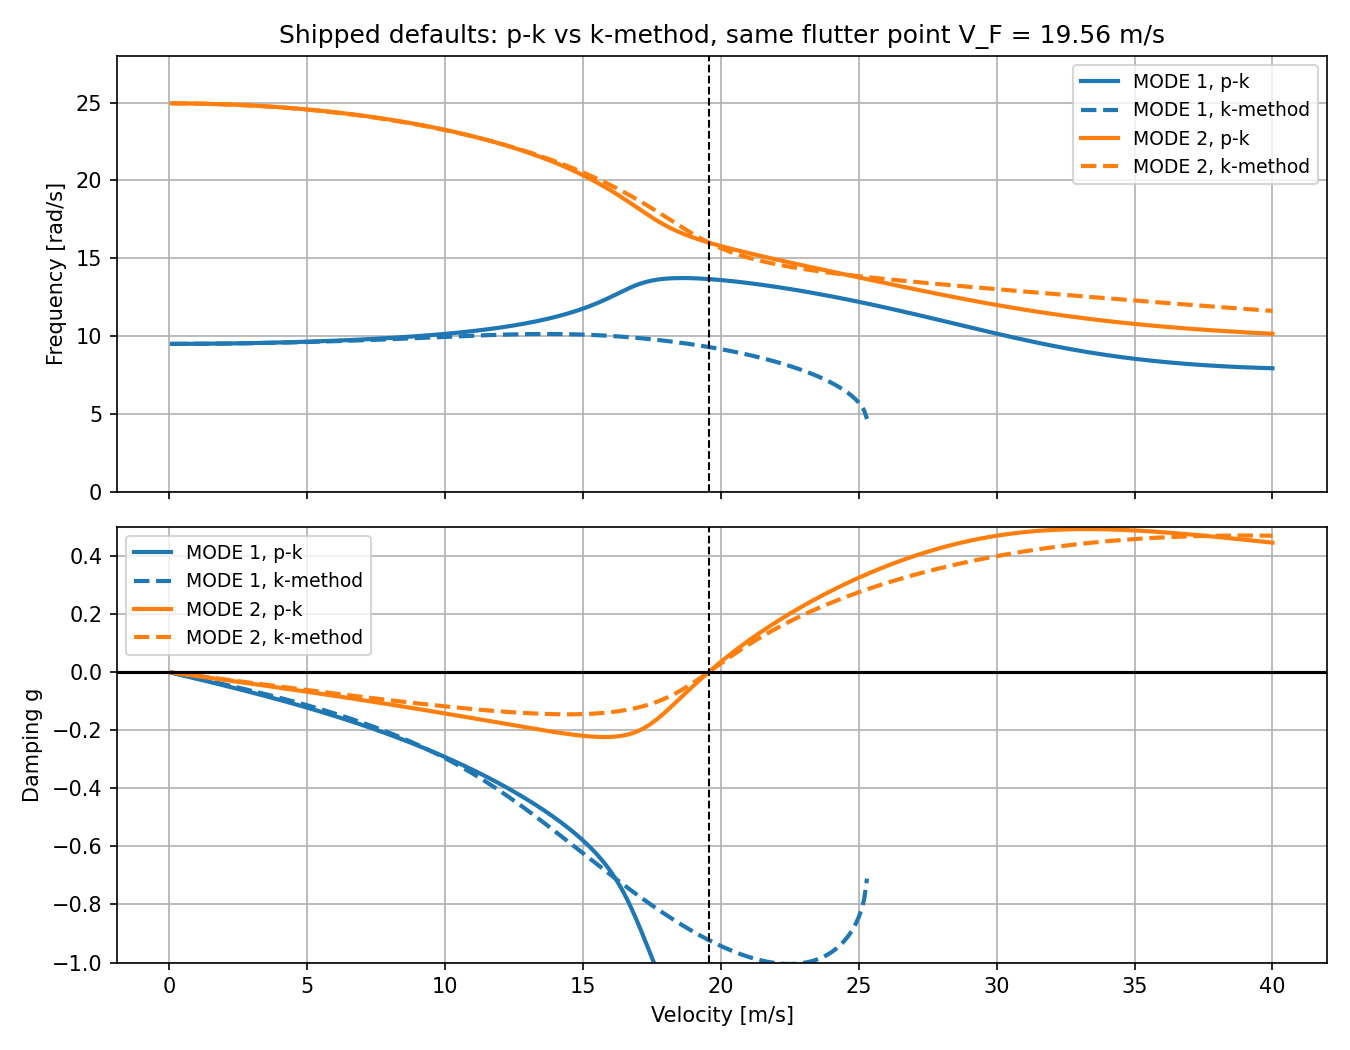
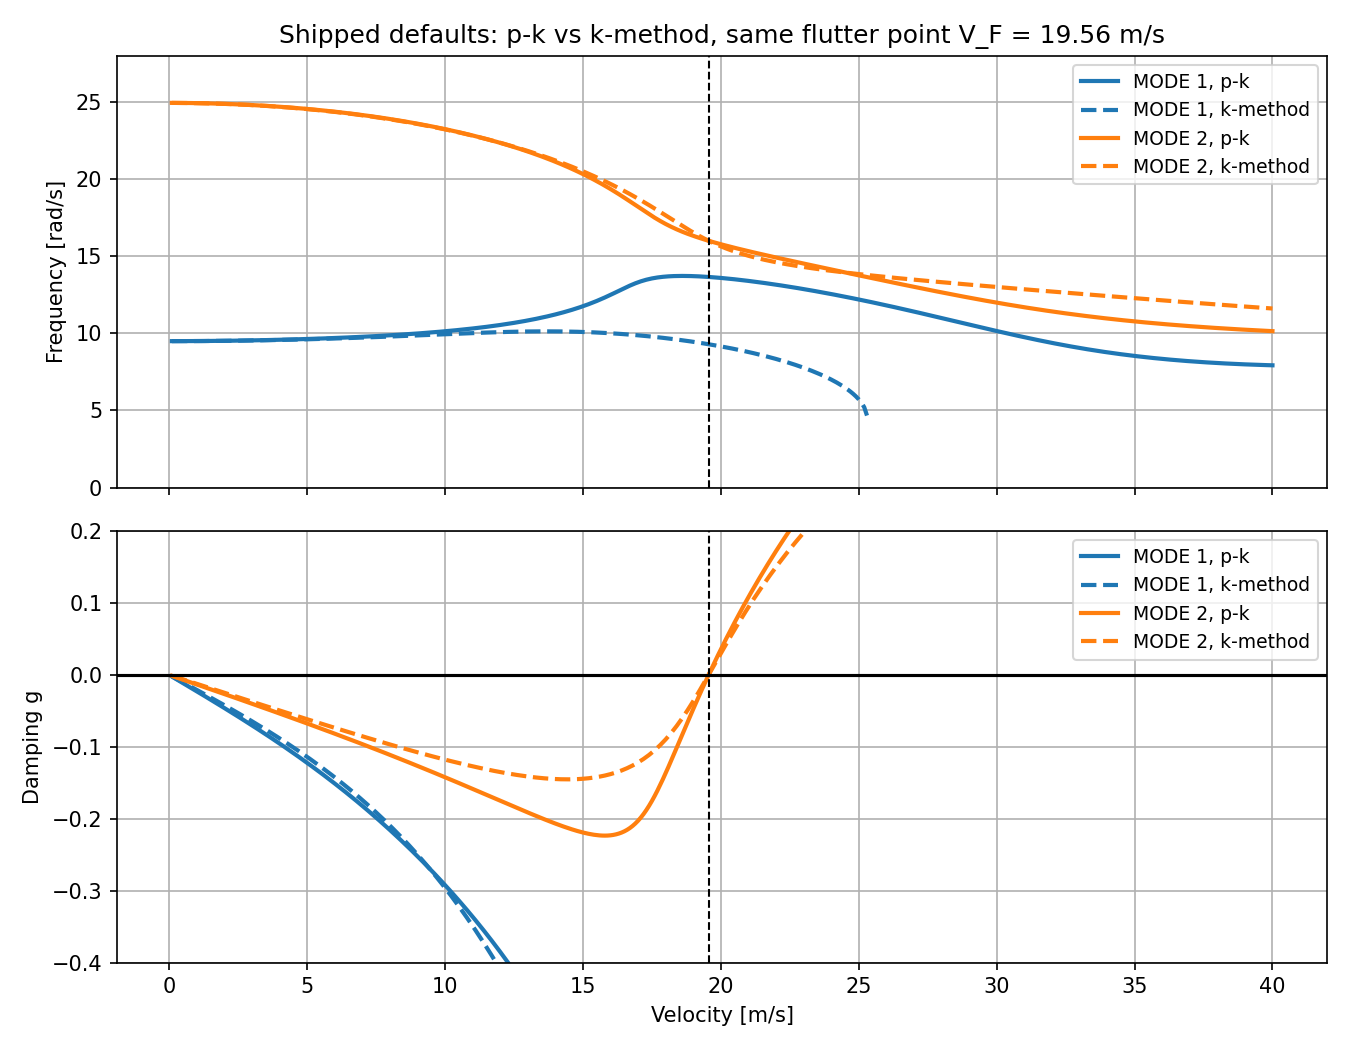
Fix the V-g damping axis at g = -0.4 to +0.2
The damping axis auto-scaled to the data (a window between [-0.2, +0.1] and
[-1.0, +0.5]), so a heavily damped mode compressed the region around g = 0
and the g = 0.03 allowable. Show a fixed [-0.4, +0.2] window instead; g_lim_nd
still overrides it. The theory-document figures use the same window and are
regenerated.

diff --git a/plotting/plots.py b/plotting/plots.py
@@ -1,4 +1,5 @@
 """Matplotlib visualisation for flutter V-g / V-f diagrams."""
+
 from __future__ import annotations
 
 import sys
@@ -32,28 +33,19 @@ if getattr(sys, "frozen", False):
     _select_frozen_backend(_FROZEN_BACKENDS)
 
 
-# Damping window [-L, +L * _G_POS_TO_NEG_RATIO_ND], with L clamped to this range so the g = 0
-# crossing stays readable even when one mode is very heavily damped.
-_G_POS_TO_NEG_RATIO_ND = 0.5
-_G_NEG_LIM_RANGE_ND = (0.2, 1.0)
+# Fixed damping window: the allowable g = 0.03 sits near the middle, so the approach to the
+# limit and the g = 0 crossing stay readable whatever the most heavily damped mode does.
+_G_LIM_ND = (-0.4, 0.2)
+_G_ALLOWABLE_ND = 0.03
 _FREQ_MARGIN_ND = 1.1
 
 
-def _axis_limits(
-    freq_arr_rad_s: NDArray[np.float64],
-    g_arr_nd: NDArray[np.float64],
-) -> tuple[tuple[float, float], tuple[float, float]]:
-    """Return ((freq_min, freq_max) in rad/s, (g_min, g_max)) for the V-f and V-g axes."""
+def _freq_axis_limits(freq_arr_rad_s: NDArray[np.float64]) -> tuple[float, float]:
+    """Return (freq_min, freq_max) in rad/s for the V-f axis: 0 to 1.1 x the highest frequency."""
     freq_max_rad_s = float(np.nanmax(freq_arr_rad_s)) * _FREQ_MARGIN_ND
     if not freq_max_rad_s > 0.0:
         freq_max_rad_s = 1.0
-
-    g_neg_needed_nd = max(
-        -float(np.nanmin(g_arr_nd)),
-        float(np.nanmax(g_arr_nd)) / _G_POS_TO_NEG_RATIO_ND,
-    )
-    g_neg_lim_nd = float(np.clip(g_neg_needed_nd, *_G_NEG_LIM_RANGE_ND))
-    return (0.0, freq_max_rad_s), (-g_neg_lim_nd, g_neg_lim_nd * _G_POS_TO_NEG_RATIO_ND)
+    return (0.0, freq_max_rad_s)
 
 
 def plot_vg_vf(
@@ -68,8 +60,8 @@ def plot_vg_vf(
     """
     Produce V-f (top) and V-g (bottom) flutter diagrams.
 
-    Axis limits follow the data: frequency from 0 to 1.1 x the highest modal frequency; damping
-    g = 2 real(p) / imag(p) in a window [-L, +L/2] around g = 0, with L between 0.2 and 1.0.
+    Frequency runs from 0 to 1.1 x the highest modal frequency; damping g = 2 real(p) / imag(p)
+    is shown on a fixed window [-0.4, +0.2] around the allowable g = 0.03.
     The flutter point of each mode that flutters is marked on both plots.
 
     Parameters
@@ -85,7 +77,7 @@ def plot_vg_vf(
     freq_lim_rad_s : tuple[float, float] or None
         Frequency axis limits in rad/s, overriding the automatic ones.
     g_lim_nd : tuple[float, float] or None
-        Damping axis limits, overriding the automatic ones.
+        Damping axis limits, overriding the default [-0.4, +0.2].
     title : str
         Figure title.
 
@@ -105,10 +97,11 @@ def plot_vg_vf(
     p_arr_modes = np.array(list(flutter_p_modes.values()))
     freq_arr_rad_s = np.imag(p_arr_modes) * velocity_range_m_s / b_m
     g_arr_nd = damping_g_nd(p_arr_modes)
-    auto_freq_lim_rad_s, auto_g_lim_nd = _axis_limits(freq_arr_rad_s, g_arr_nd)
 
-    ax[0].set_ylim(freq_lim_rad_s if freq_lim_rad_s is not None else auto_freq_lim_rad_s)
-    ax[1].set_ylim(g_lim_nd if g_lim_nd is not None else auto_g_lim_nd)
+    if freq_lim_rad_s is None:
+        freq_lim_rad_s = _freq_axis_limits(freq_arr_rad_s)
+    ax[0].set_ylim(freq_lim_rad_s)
+    ax[1].set_ylim(g_lim_nd if g_lim_nd is not None else _G_LIM_ND)
     for axis in ax:
         axis.set_xlim(velocity_range_m_s[0], velocity_range_m_s[-1])
         axis.grid(True)
@@ -125,9 +118,11 @@ def plot_vg_vf(
             ax[1].plot(v_flutter_m_s, 0.0, "o", color=colour)
             for axis in ax:
                 axis.axvline(v_flutter_m_s, color=colour, linestyle="--", linewidth=1)
-            ax[1].plot([], [], "--", color=colour, label=f"V_F = {v_flutter_m_s:.2f} m/s")
+            ax[1].plot(
+                [], [], "--", color=colour, label=f"V_F = {v_flutter_m_s:.2f} m/s"
+            )
 
-    ax[1].axhline(0.03, linestyle="dotted", color="black", linewidth=2)
+    ax[1].axhline(_G_ALLOWABLE_ND, linestyle="dotted", color="black", linewidth=2)
     ax[1].axhline(0.0, color="black", linewidth=2)
 
     ax[0].legend()

diff --git a/tests/test_plots.py b/tests/test_plots.py
@@ -1,4 +1,5 @@
 """Tests for plotting/plots.py."""
+
 from __future__ import annotations
 
 import matplotlib.pyplot as plt
@@ -50,34 +51,26 @@ def test_select_frozen_backend_falls_back_to_agg(monkeypatch):
     assert plots._select_frozen_backend(("TkAgg", "MacOSX")) == "Agg"
 
 
-def test_axis_limits_frequency_follows_data():
+def test_freq_axis_limits_follow_data():
     """Frequency axis runs from 0 to 1.1 x the highest frequency, not a fixed 50 rad/s."""
     freq_arr_rad_s = np.array([[0.2, 0.4], [0.9, 1.0]])
-    g_arr_nd = np.array([[-0.05, -0.04], [-0.02, 0.01]])
-    freq_lim_rad_s, _ = plots._axis_limits(freq_arr_rad_s, g_arr_nd)
-    np.testing.assert_allclose(freq_lim_rad_s, (0.0, 1.1), rtol=1e-4)
+    np.testing.assert_allclose(
+        plots._freq_axis_limits(freq_arr_rad_s), (0.0, 1.1), rtol=1e-4
+    )
 
 
-def test_axis_limits_damping_positive_is_half_negative_and_clamped():
-    """A heavily damped mode (g = -9.4) clamps the window to [-1.0, +0.5]."""
-    freq_arr_rad_s = np.array([[10.0, 12.0], [25.0, 16.0]])
-    g_arr_nd = np.array([[-0.01, -9.4], [-0.11, 0.248]])
-    _, g_lim_nd = plots._axis_limits(freq_arr_rad_s, g_arr_nd)
-    np.testing.assert_allclose(g_lim_nd, (-1.0, 0.5), rtol=1e-4)
+def test_plot_vg_vf_damping_axis_is_fixed(monkeypatch):
+    """A heavily damped mode (g = -9.4) does not stretch the damping axis beyond [-0.4, +0.2]."""
+    captured = {}
+    monkeypatch.setattr(plots.plt, "close", lambda fig: captured.setdefault("fig", fig))
+    velocity_range_m_s = np.array([5.0, 10.0, 20.0])
+    p_arr = np.array([1.0, 0.8, 0.6]) * (np.array([-4.7, -0.1, 0.2]) + 1j)
 
-
-def test_axis_limits_damping_fits_small_data_with_minimum_window():
-    freq_arr_rad_s = np.array([[10.0, 12.0]])
-    _, g_lim_nd = plots._axis_limits(freq_arr_rad_s, np.array([[-0.2, -0.01]]))
-    np.testing.assert_allclose(g_lim_nd, (-0.2, 0.1), rtol=1e-4)
-    _, g_lim_nd = plots._axis_limits(freq_arr_rad_s, np.array([[-0.01, -0.001]]))
-    np.testing.assert_allclose(g_lim_nd, (-0.2, 0.1), rtol=1e-4)
-
-
-def test_axis_limits_damping_widens_for_positive_g():
-    """Positive g of 0.15 needs L = 0.3 so that +L/2 still contains it."""
-    _, g_lim_nd = plots._axis_limits(np.array([[10.0, 12.0]]), np.array([[-0.05, 0.15]]))
-    np.testing.assert_allclose(g_lim_nd, (-0.3, 0.15), rtol=1e-4)
+    plots.plot_vg_vf(velocity_range_m_s, {"MODE 1": p_arr}, b_m=0.5)
+    np.testing.assert_allclose(
+        captured["fig"].axes[1].get_ylim(), (-0.4, 0.2), rtol=1e-4
+    )
+    plt.close(captured["fig"])
 
 
 def test_plot_vg_vf_marks_flutter_speed(monkeypatch):

diff --git a/docs/figures/make_figures.py b/docs/figures/make_figures.py
@@ -337,7 +337,7 @@ def fig_old_vs_new(path: Path) -> None:
             ax[1, col].plot(v_arr, damping_g_nd(p), style, lw=2, label=label)
         ax[0, col].set_title(title)
         ax[0, col].set_ylim(0, 48)
-        ax[1, col].set_ylim(-1.0, 0.5)
+        ax[1, col].set_ylim(-0.4, 0.2)
         ax[1, col].axhline(0.0, color="k", lw=1.5)
         ax[1, col].axhline(0.03, color="k", lw=1.5, ls=":")
         ax[1, col].set_xlabel("Velocity [m/s]")
@@ -370,7 +370,7 @@ def fig_pk_vs_k(path: Path) -> None:
         axis.grid(True)
         axis.legend(fontsize=9)
     ax[0].set_ylim(0, 28)
-    ax[1].set_ylim(-1.0, 0.5)
+    ax[1].set_ylim(-0.4, 0.2)
     ax[1].axhline(0.0, color="k", lw=1.5)
     ax[0].set_ylabel("Frequency [rad/s]")
     ax[1].set_ylabel("Damping g")
